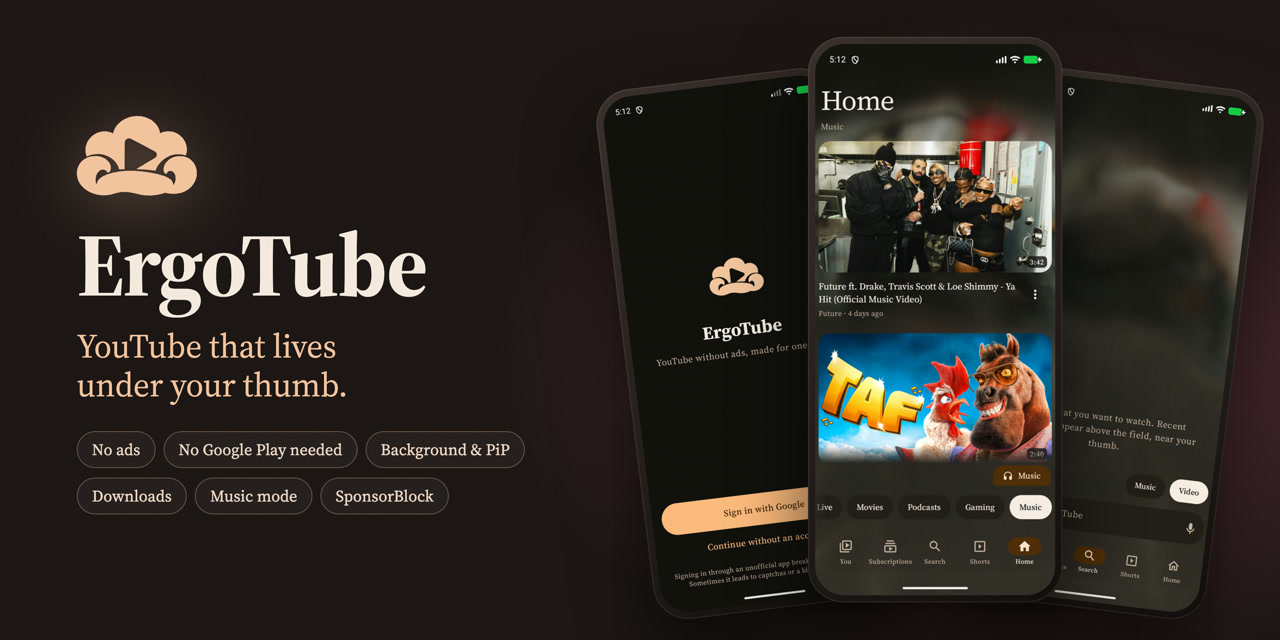
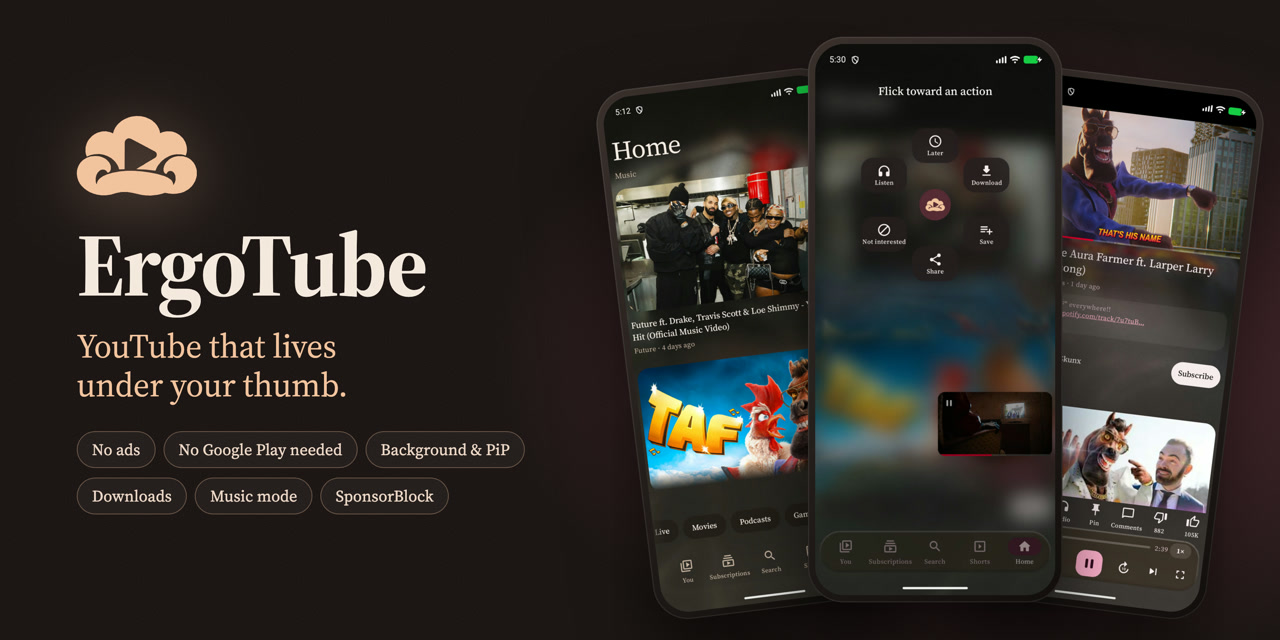
README: English fan, player and fullscreen shots, live tour GIF
The tour GIF is now a real screen recording: scrolling Home, holding a
card to open the fan and flicking to Not interested, then the player.
Adds a screenshot gallery with fullscreen to both READMEs.

Changed region(s): [[0.4688, 0.125, 1.0, 0.9688], [0.6562, 0.8438, 0.7188, 0.9062]]

diff --git a/README.md b/README.md
@@ -52,6 +52,18 @@ Everything that appears or hides comes into focus out of a blur. Nothing slides 
 
 <img src="docs/media/reach.jpg" alt="Every fixed control sits in the bottom 55% of the screen" width="100%">
 
+<table>
+<tr>
+<td align="center" width="25%"><img src="docs/media/home.jpg" alt="Home feed with the dock and chips at the bottom"><br><sub><b>Home</b>: chips, Music and the dock by your thumb</sub></td>
+<td align="center" width="25%"><img src="docs/media/fan.jpg" alt="The action fan over a blurred feed"><br><sub><b>Fan</b>: hold a card, flick to an action</sub></td>
+<td align="center" width="25%"><img src="docs/media/player.jpg" alt="Portrait player with the remote at the bottom"><br><sub><b>Player</b>: the remote sits under the thumb</sub></td>
+<td align="center" width="25%"><img src="docs/media/search.jpg" alt="Search with the field at the bottom edge"><br><sub><b>Search</b>: the field is at the bottom edge</sub></td>
+</tr>
+<tr>
+<td colspan="4" align="center"><img src="docs/media/fullscreen.jpg" alt="Fullscreen with the corner fan and the arc timeline" width="90%"><br><sub><b>Fullscreen</b>: controls gather in a fan in the corner, the timeline is an arc you sweep with your thumb</sub></td>
+</tr>
+</table>
+
 ## Features
 
 <table>

diff --git a/README.ru.md b/README.ru.md
@@ -43,6 +43,18 @@
 </tr>
 </table>
 
+<table>
+<tr>
+<td align="center" width="25%"><img src="docs/media/home.jpg" alt="Главная"><br><sub><b>Главная</b>: фильтры, музыка и панель у пальца</sub></td>
+<td align="center" width="25%"><img src="docs/media/fan.jpg" alt="Веер действий"><br><sub><b>Веер</b>: зажми карточку и махни</sub></td>
+<td align="center" width="25%"><img src="docs/media/player.jpg" alt="Плеер"><br><sub><b>Плеер</b>: пульт под большим пальцем</sub></td>
+<td align="center" width="25%"><img src="docs/media/search.jpg" alt="Поиск"><br><sub><b>Поиск</b>: поле у нижнего края</sub></td>
+</tr>
+<tr>
+<td colspan="4" align="center"><img src="docs/media/fullscreen.jpg" alt="Полный экран" width="90%"><br><sub><b>Полный экран</b>: кнопки собираются веером в углу, а перемотка идёт по дуге под пальцем</sub></td>
+</tr>
+</table>
+
 ## Возможности
 
 **🖐 Под одну руку**
